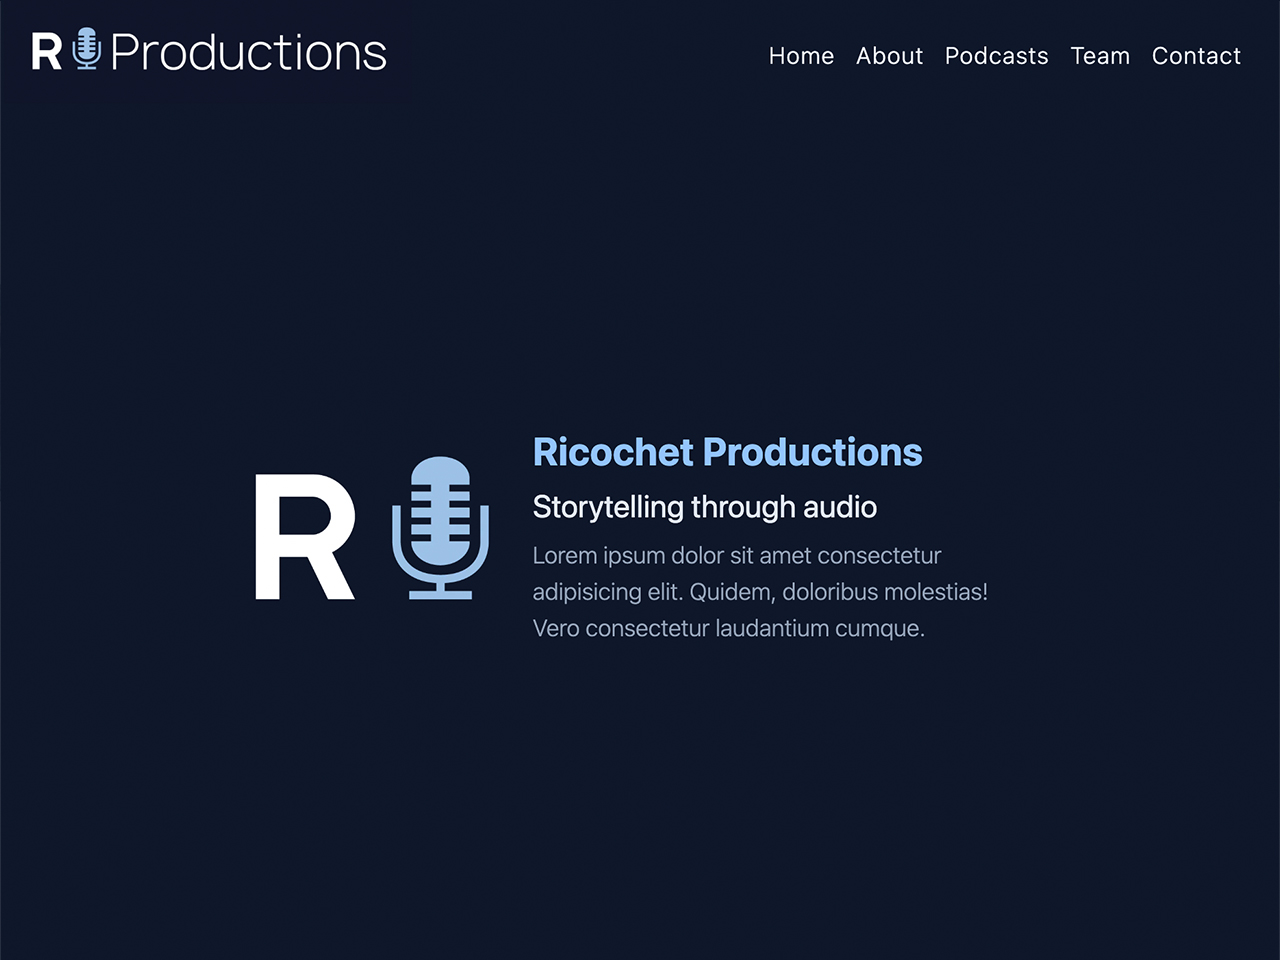
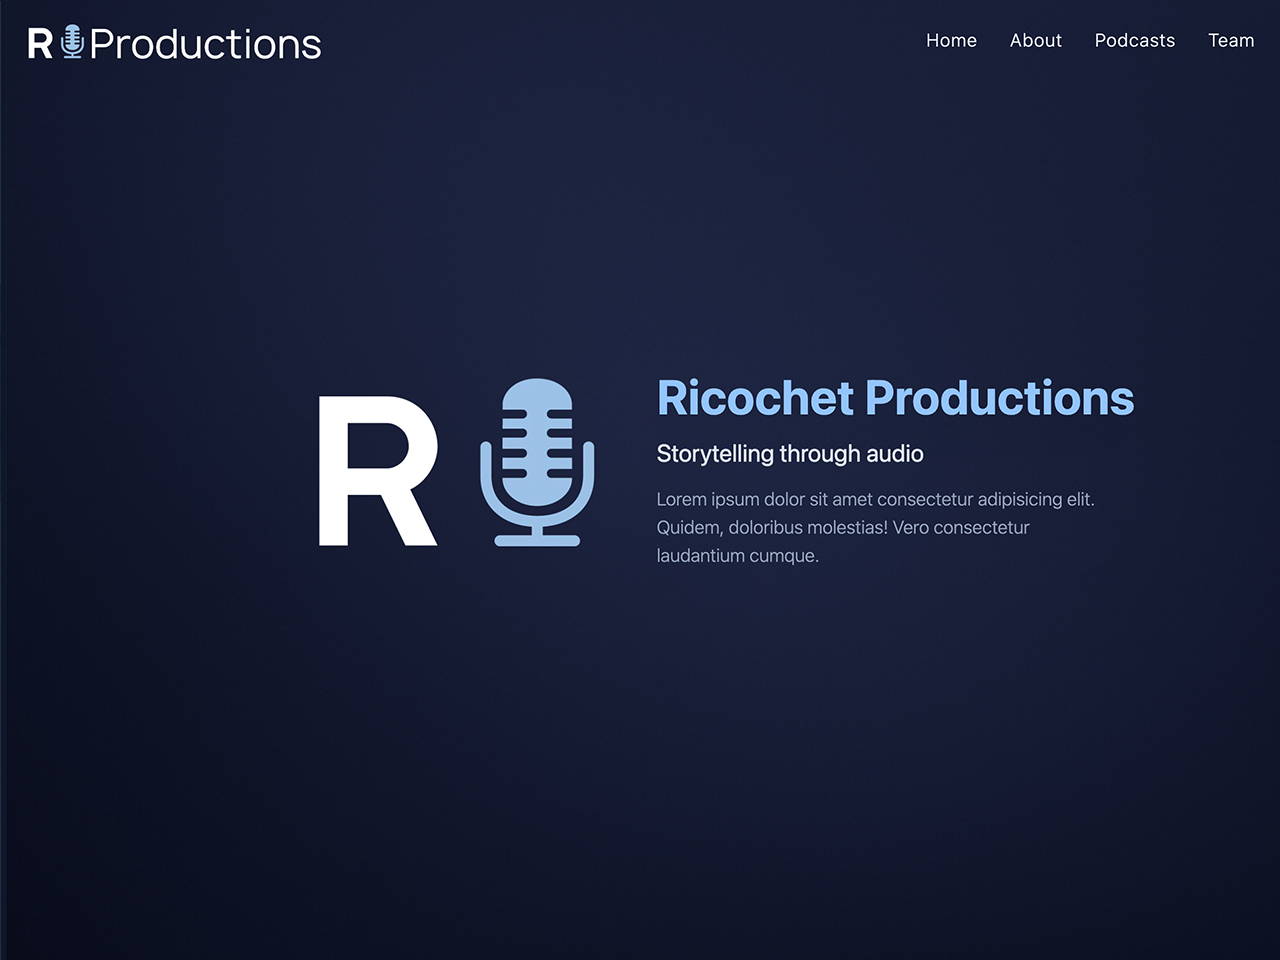
r prod img, css

Changed region(s): [[0.1875, 0.3125, 0.9062, 0.6875], [0.0, 0.0312, 0.3125, 0.0938], [0.5938, 0.0312, 0.9688, 0.0938]]

diff --git a/styles/styles.css b/styles/styles.css
@@ -32,12 +32,10 @@ canvas {
 
 .top-bg{
     background-image: linear-gradient(rgba(255, 255, 255, 0.064) 50%, var(--module-bg) 100%);
-    /* mix-blend-mode: overlay; */
     padding-bottom: 25rem;
 }
 
 .blur-bg{
-    /* backdrop-filter: blur(2px); */
     width: 100%;
     display: flex;
     flex-direction: column;
@@ -45,16 +43,6 @@ canvas {
     justify-content: center;
     background-color: var(--module-bg);
 }
-
-.canvas-filter {
-    /* mix-blend-mode: overlay; */
-    /* background-color: #141414; */
-}
-
-/* #canvas-bg {
-    mix-blend-mode: darken;
-    background-color: #0c0c0c;
-} */
 
 .blank-animation-space {
     height: 100vh;
@@ -147,8 +135,6 @@ p {
 }
 
 .swirls {
-    /* width: 2rem;
-    height: 2rem; */
     margin: 0 1.5rem;
     opacity: 0.8;
     filter: var(--invert);
@@ -466,7 +452,6 @@ a {
     display: flex;
     flex-direction: column;
     align-items: center;
-    /* background-color: var(--module-bg); */
     width: 90vw;
 }
 
@@ -612,38 +597,11 @@ a {
     border-bottom: var(--btn-hover) 1px solid;
 }
 
-/* .bio-category-buttons {
-    display: flex;
-    justify-content: end
-}
-
-.bio-category-buttons button {
-    width: 8rem;
-    height: 3rem;
-    border: rgb(174, 174, 174) 1px solid;
-    border-radius: 5px;
-    color: white;
-    font-size: 1em;
-    font-family: Stigfier;
-    background: none;
-}
-
-.bio-category-buttons p {
-    font-size: 1.5em;
-    position: relative;
-    left: 1rem;
-    top: 0.3rem;
-    text-shadow: none;
-    font-weight: 100;
-} */
-
 /* ~~~~~~ SKILLS section ~~~~~~  */
 
 .skills-container {
-    /* height: 900px; */
     max-width: 1180px;
     width: 90%;
-    /* background-color: var(--module-bg); */
     display: flex;
     flex-direction: column;
     align-items: center;
@@ -1045,16 +1003,6 @@ a {
     margin: 5rem auto 2rem auto;
     bottom: 0;
 }
-/* 
-.Footer h5 {
-    margin: 0.8rem auto;
-}
-
-.Footer-Icons {
-    display: flex;
-    justify-content: center;
-    padding-right: 1rem;
-} */
 
 .Social-Icons {
     cursor: pointer;
@@ -1125,10 +1073,6 @@ a {
 
 
 /* Design */
-
-#design {
-    /* padding-top: 10rem; */
-}
 
 .design-section{
     display: flex;
